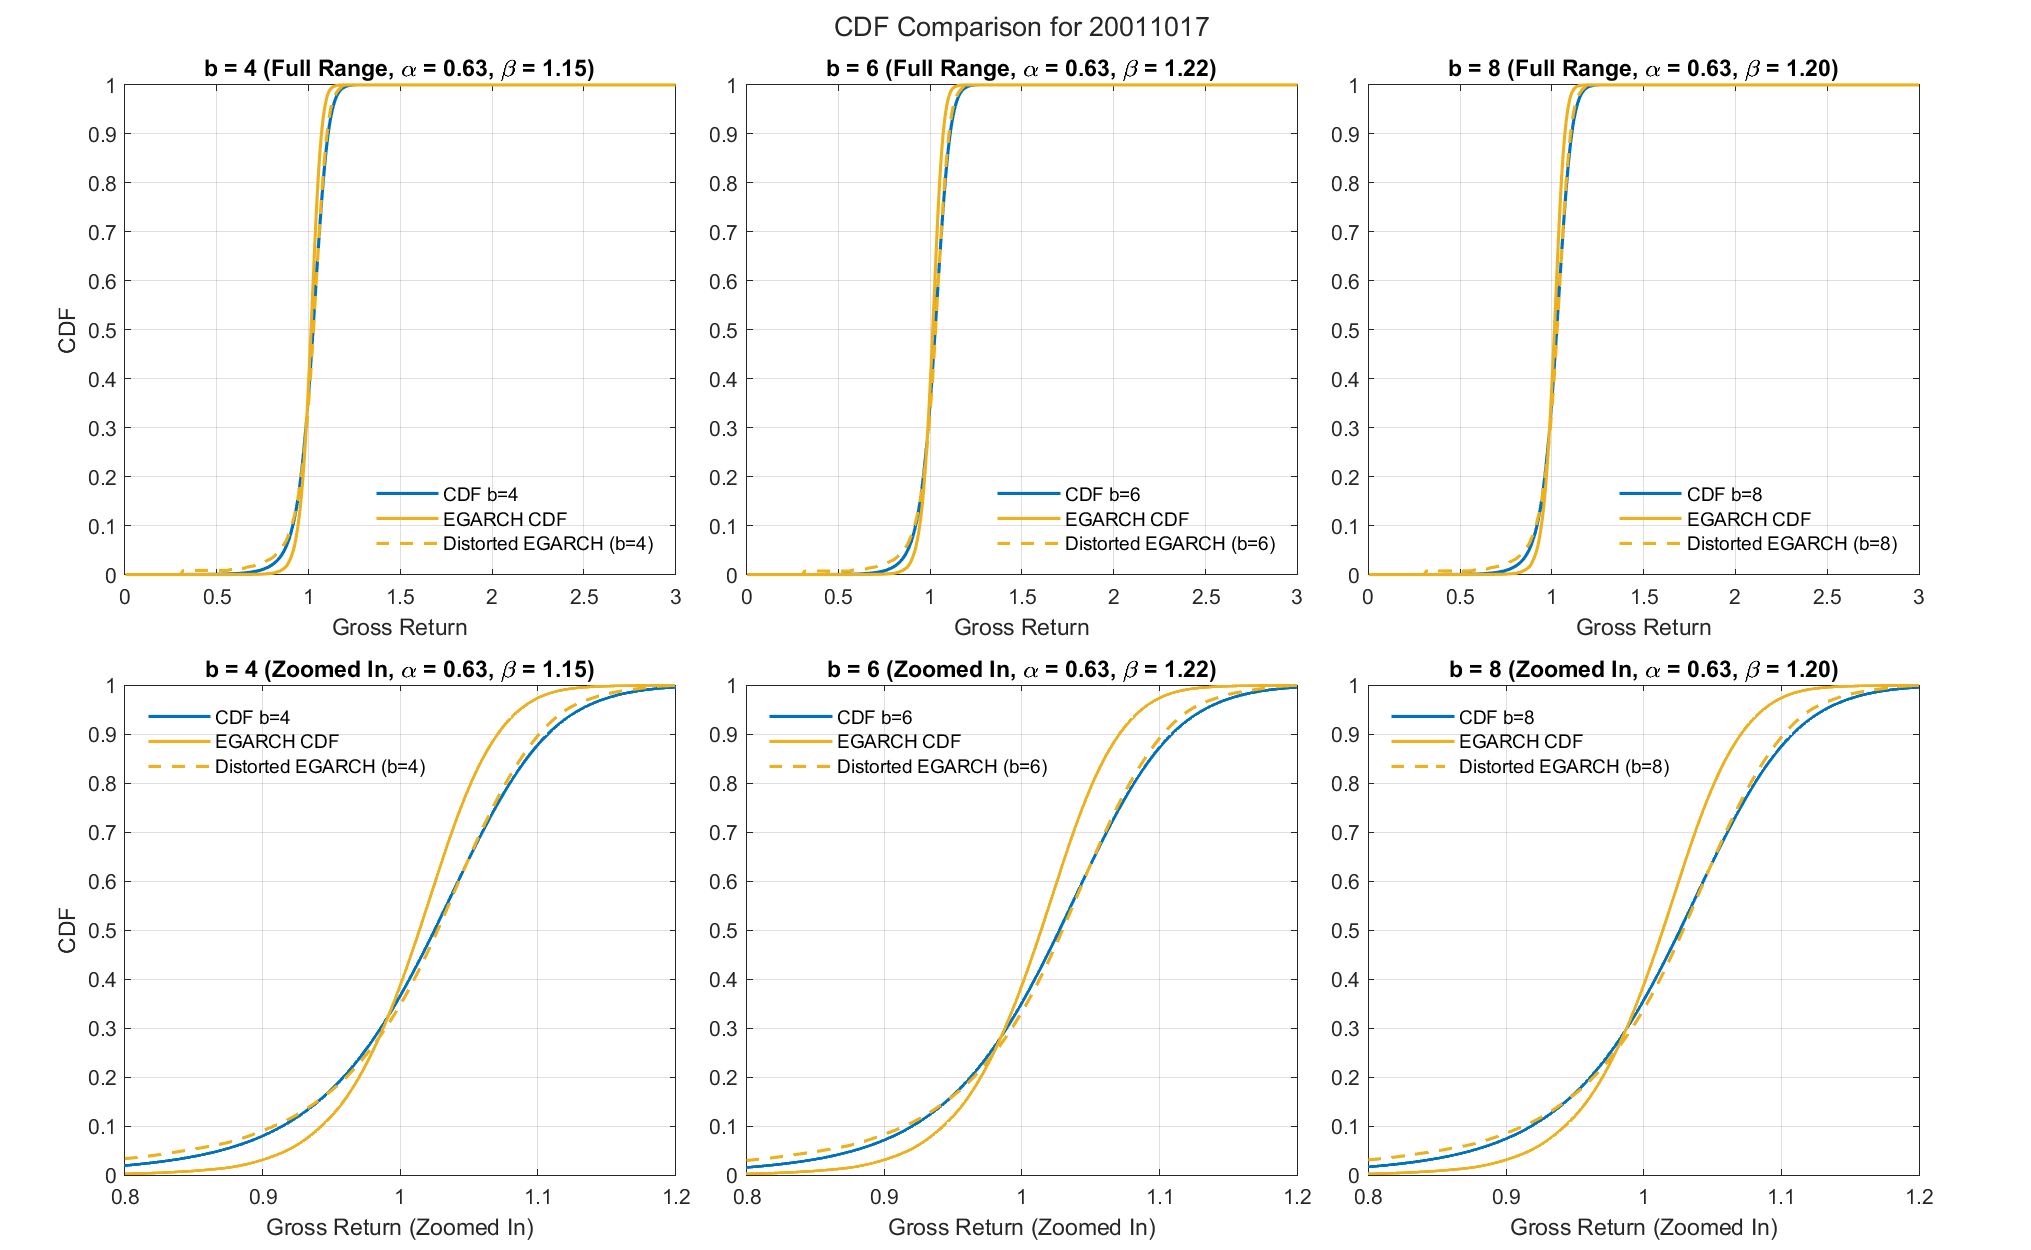
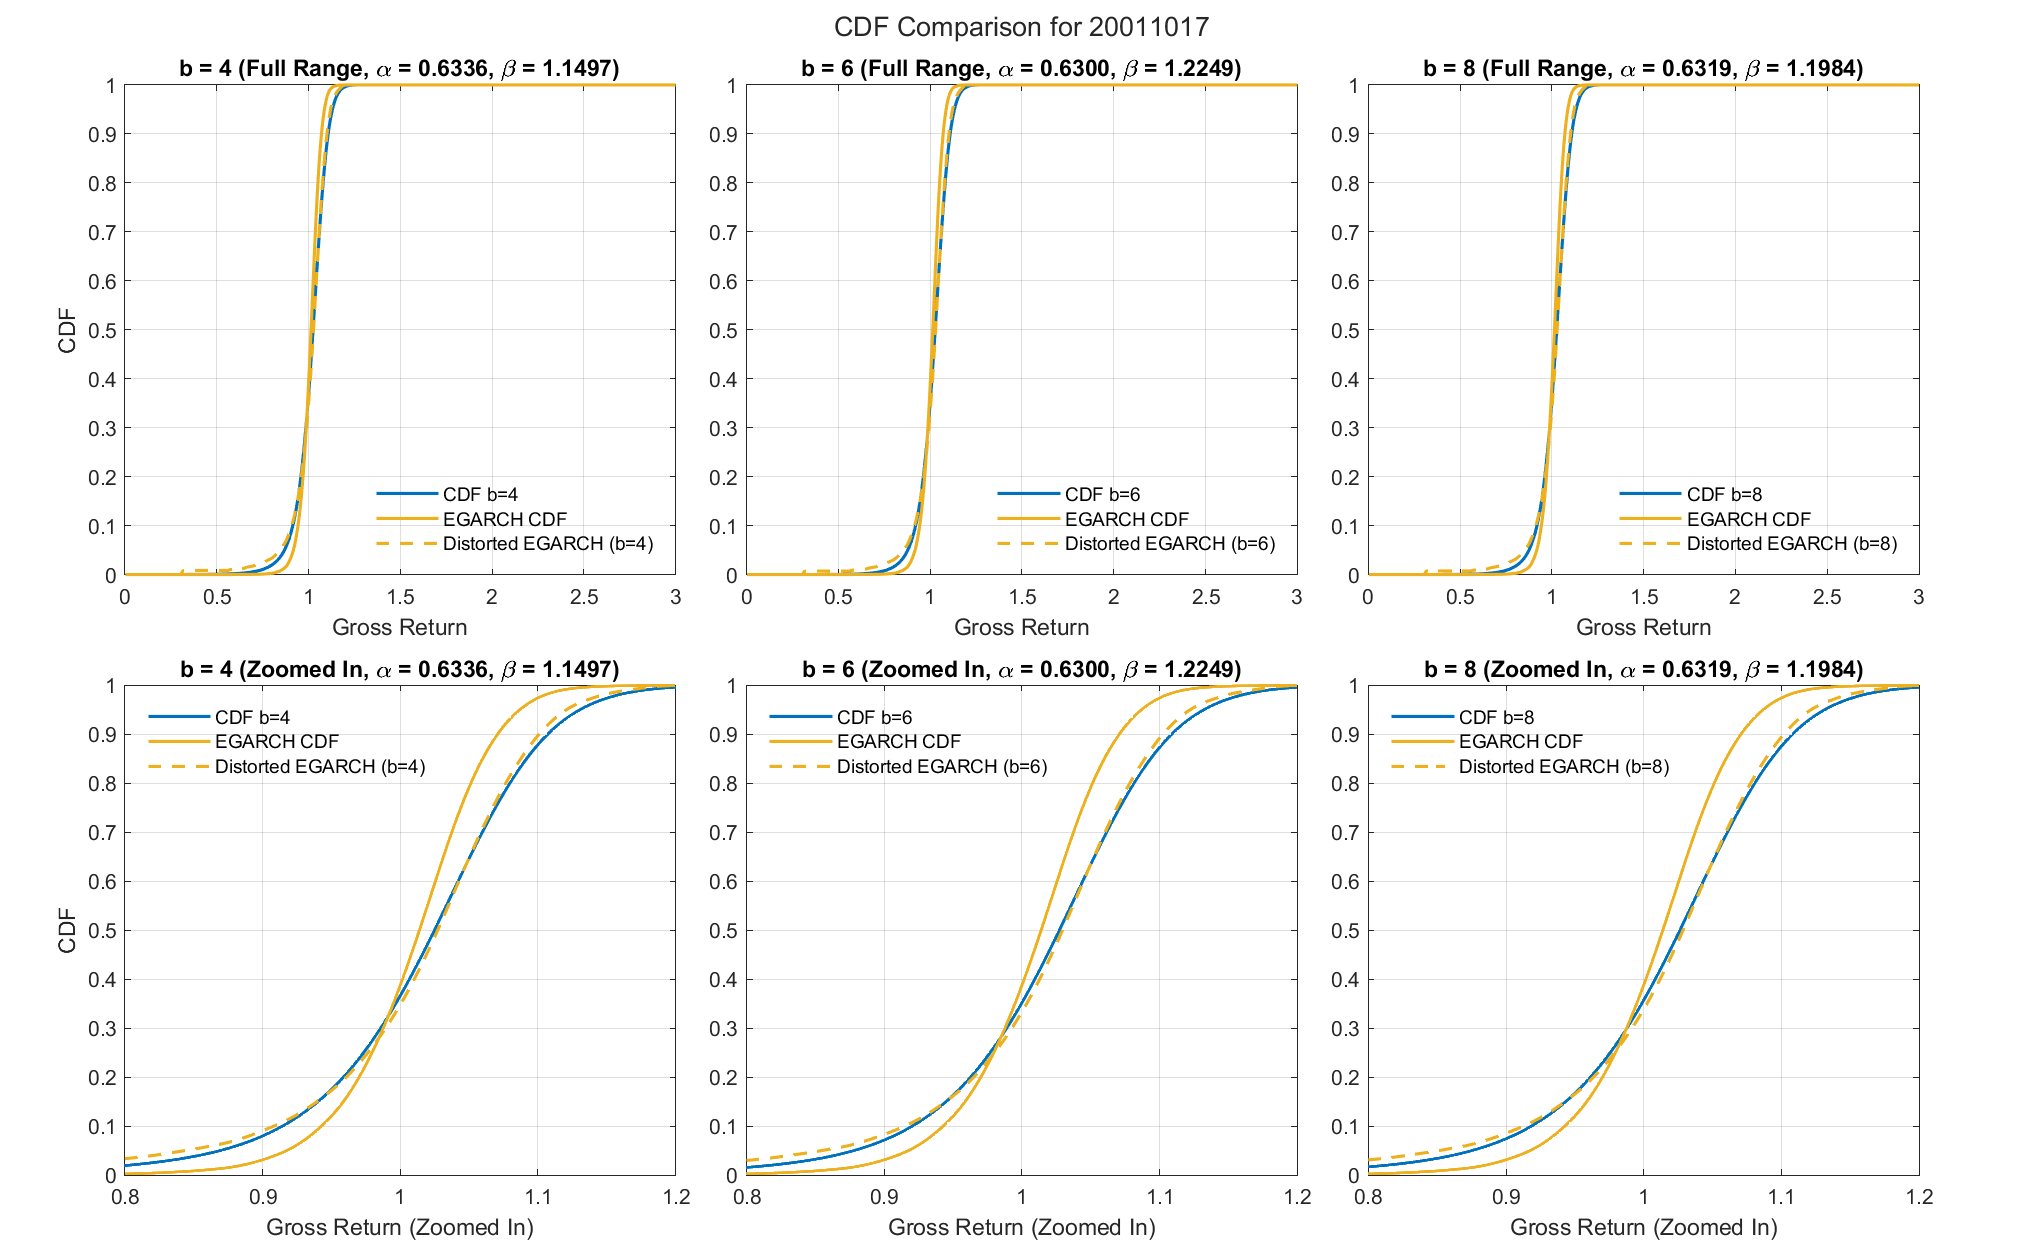
Refined title formatting in CDF comparison plots for improved clarity

diff --git a/08  變形函數（Distortion Function）/Procedure__Estimate_Distortion_Function_Parameters_Monthly.m b/08  變形函數（Distortion Function）/Procedure__Estimate_Distortion_Function_Parameters_Monthly.m
@@ -297,7 +297,7 @@ clear max_alpha_date  max_beta_date   min_alpha_date  min_beta_date
 %% Plot: CDF comparison
 
 % Setting
-t = 265;
+t = 135;
 
 CDF_b_4 = b_4_AllR_CDF(t, :);
 CDF_b_6 = b_6_AllR_CDF(t, :);
@@ -326,7 +326,7 @@ plot(max_gross_return_y, CDF_EGARCH_b_4_Distortion, '--', 'Color', EGARCH_color,
 hold off;
 xlabel('Gross Return');
 ylabel('CDF');
-title(sprintf('b = 4 (Full Range, \\alpha = %.2f, \\beta = %.2f)', optimal_alpha(t, 1), optimal_beta(t, 1)), 'Interpreter', 'tex');
+title(sprintf('b = 4 (Full Range, \\alpha = %.4f, \\beta = %.4f)', optimal_alpha(t, 1), optimal_beta(t, 1)), 'Interpreter', 'tex');
 legend('Location', 'southeast', 'Box', 'Off');
 grid on;
 
@@ -338,7 +338,7 @@ plot(max_gross_return_y, CDF_EGARCH, '-', 'Color', EGARCH_color, 'LineWidth', 1.
 plot(max_gross_return_y, CDF_EGARCH_b_6_Distortion, '--', 'Color', EGARCH_color, 'LineWidth', 1.5, 'DisplayName', 'Distorted EGARCH (b=6)');
 hold off;
 xlabel('Gross Return');
-title(sprintf('b = 6 (Full Range, \\alpha = %.2f, \\beta = %.2f)', optimal_alpha(t, 2), optimal_beta(t, 2)), 'Interpreter', 'tex');
+title(sprintf('b = 6 (Full Range, \\alpha = %.4f, \\beta = %.4f)', optimal_alpha(t, 2), optimal_beta(t, 2)), 'Interpreter', 'tex');
 legend('Location', 'southeast', 'Box', 'Off');
 grid on;
 
@@ -350,7 +350,7 @@ plot(max_gross_return_y, CDF_EGARCH, '-', 'Color', EGARCH_color, 'LineWidth', 1.
 plot(max_gross_return_y, CDF_EGARCH_b_8_Distortion, '--', 'Color', EGARCH_color, 'LineWidth', 1.5, 'DisplayName', 'Distorted EGARCH (b=8)');
 hold off;
 xlabel('Gross Return');
-title(sprintf('b = 8 (Full Range, \\alpha = %.2f, \\beta = %.2f)', optimal_alpha(t, 3), optimal_beta(t, 3)), 'Interpreter', 'tex');
+title(sprintf('b = 8 (Full Range, \\alpha = %.4f, \\beta = %.4f)', optimal_alpha(t, 3), optimal_beta(t, 3)), 'Interpreter', 'tex');
 legend('Location', 'southeast', 'Box', 'Off');
 grid on;
 
@@ -363,7 +363,7 @@ plot(max_gross_return_y, CDF_EGARCH_b_4_Distortion, '--', 'Color', EGARCH_color,
 hold off;
 xlabel('Gross Return (Zoomed In)');
 ylabel('CDF');
-title(sprintf('b = 4 (Zoomed In, \\alpha = %.2f, \\beta = %.2f)', optimal_alpha(t, 1), optimal_beta(t, 1)), 'Interpreter', 'tex');
+title(sprintf('b = 4 (Zoomed In, \\alpha = %.4f, \\beta = %.4f)', optimal_alpha(t, 1), optimal_beta(t, 1)), 'Interpreter', 'tex');
 legend('Location', 'northwest', 'Box', 'Off');
 xlim([0.8, 1.2]);
 grid on;
@@ -376,7 +376,7 @@ plot(max_gross_return_y, CDF_EGARCH, '-', 'Color', EGARCH_color, 'LineWidth', 1.
 plot(max_gross_return_y, CDF_EGARCH_b_6_Distortion, '--', 'Color', EGARCH_color, 'LineWidth', 1.5, 'DisplayName', 'Distorted EGARCH (b=6)');
 hold off;
 xlabel('Gross Return (Zoomed In)');
-title(sprintf('b = 6 (Zoomed In, \\alpha = %.2f, \\beta = %.2f)', optimal_alpha(t, 2), optimal_beta(t, 2)), 'Interpreter', 'tex');
+title(sprintf('b = 6 (Zoomed In, \\alpha = %.4f, \\beta = %.4f)', optimal_alpha(t, 2), optimal_beta(t, 2)), 'Interpreter', 'tex');
 legend('Location', 'northwest', 'Box', 'Off');
 xlim([0.8, 1.2]);
 grid on;
@@ -389,7 +389,7 @@ plot(max_gross_return_y, CDF_EGARCH, '-', 'Color', EGARCH_color, 'LineWidth', 1.
 plot(max_gross_return_y, CDF_EGARCH_b_8_Distortion, '--', 'Color', EGARCH_color, 'LineWidth', 1.5, 'DisplayName', 'Distorted EGARCH (b=8)');
 hold off;
 xlabel('Gross Return (Zoomed In)');
-title(sprintf('b = 8 (Zoomed In, \\alpha = %.2f, \\beta = %.2f)', optimal_alpha(t, 3), optimal_beta(t, 3)), 'Interpreter', 'tex');
+title(sprintf('b = 8 (Zoomed In, \\alpha = %.4f, \\beta = %.4f)', optimal_alpha(t, 3), optimal_beta(t, 3)), 'Interpreter', 'tex');
 legend('Location', 'northwest', 'Box', 'Off');
 xlim([0.8, 1.2]);
 grid on;
